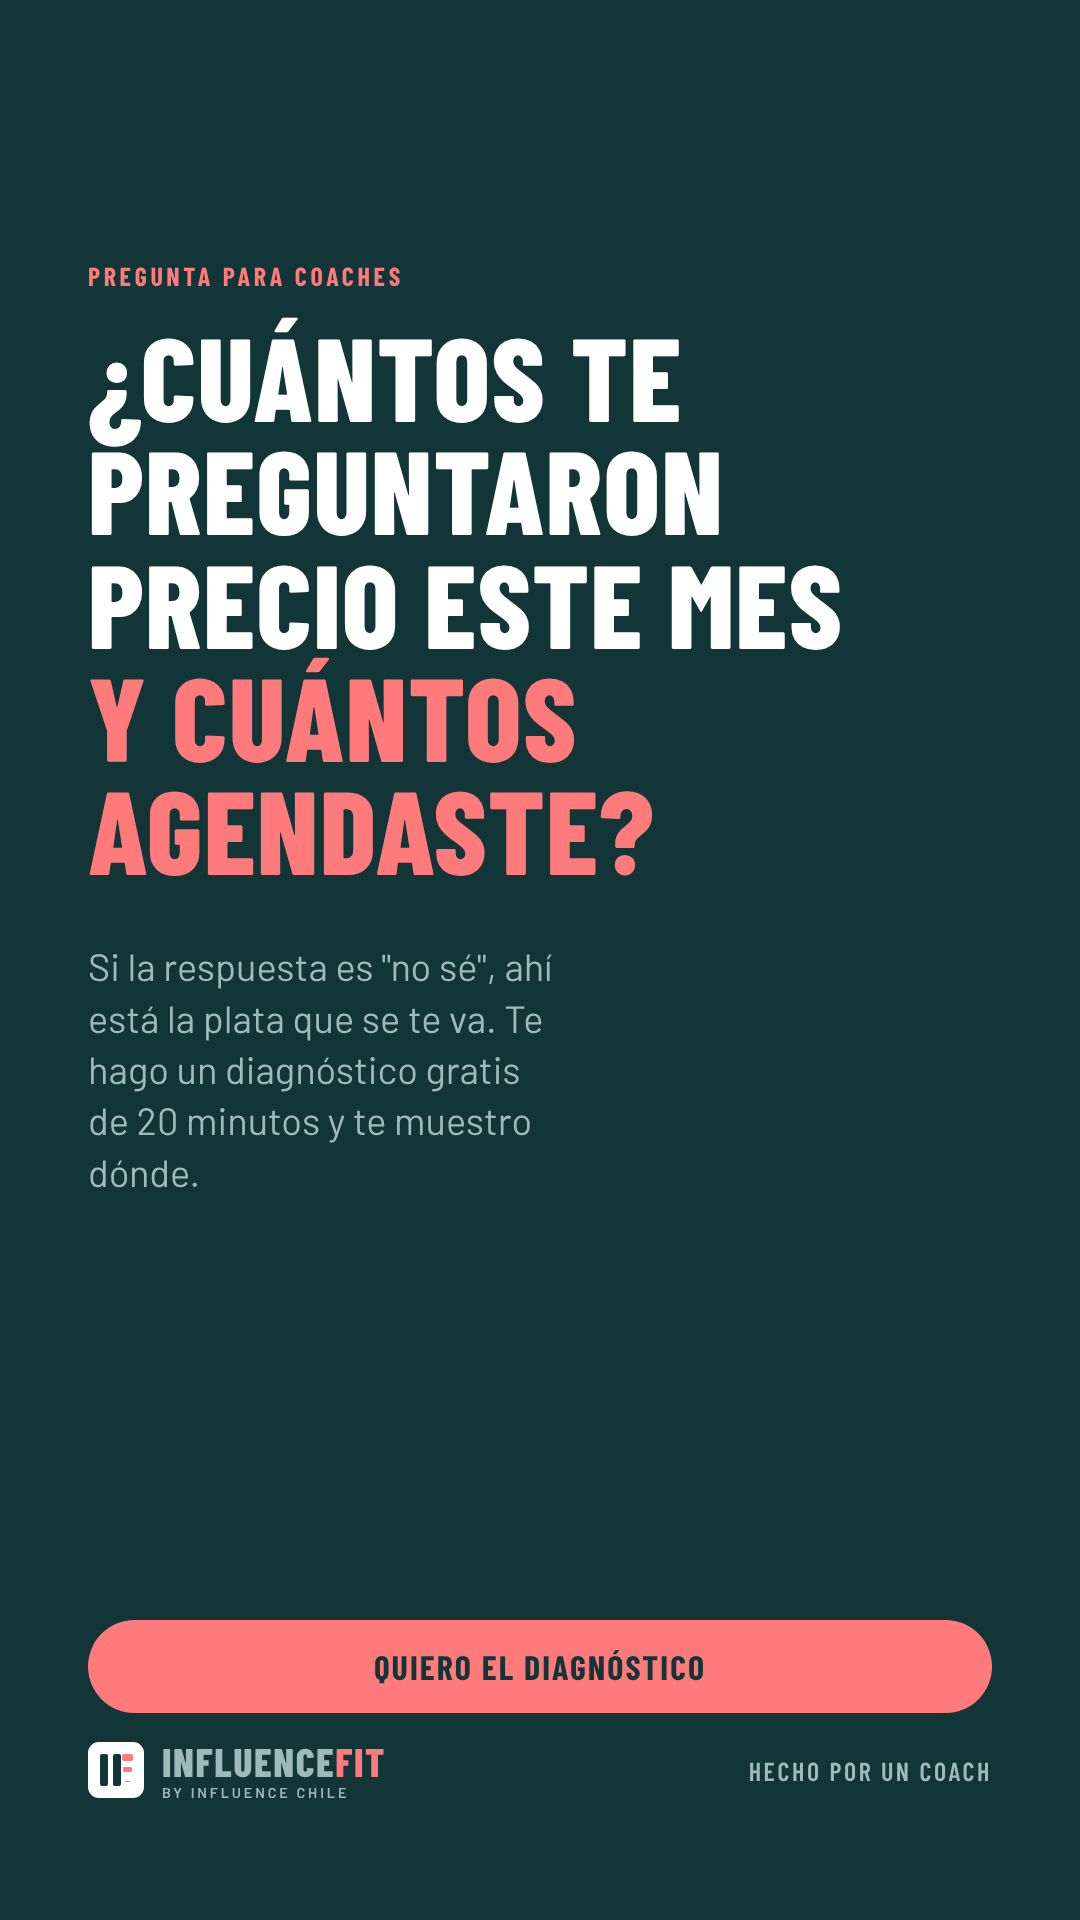
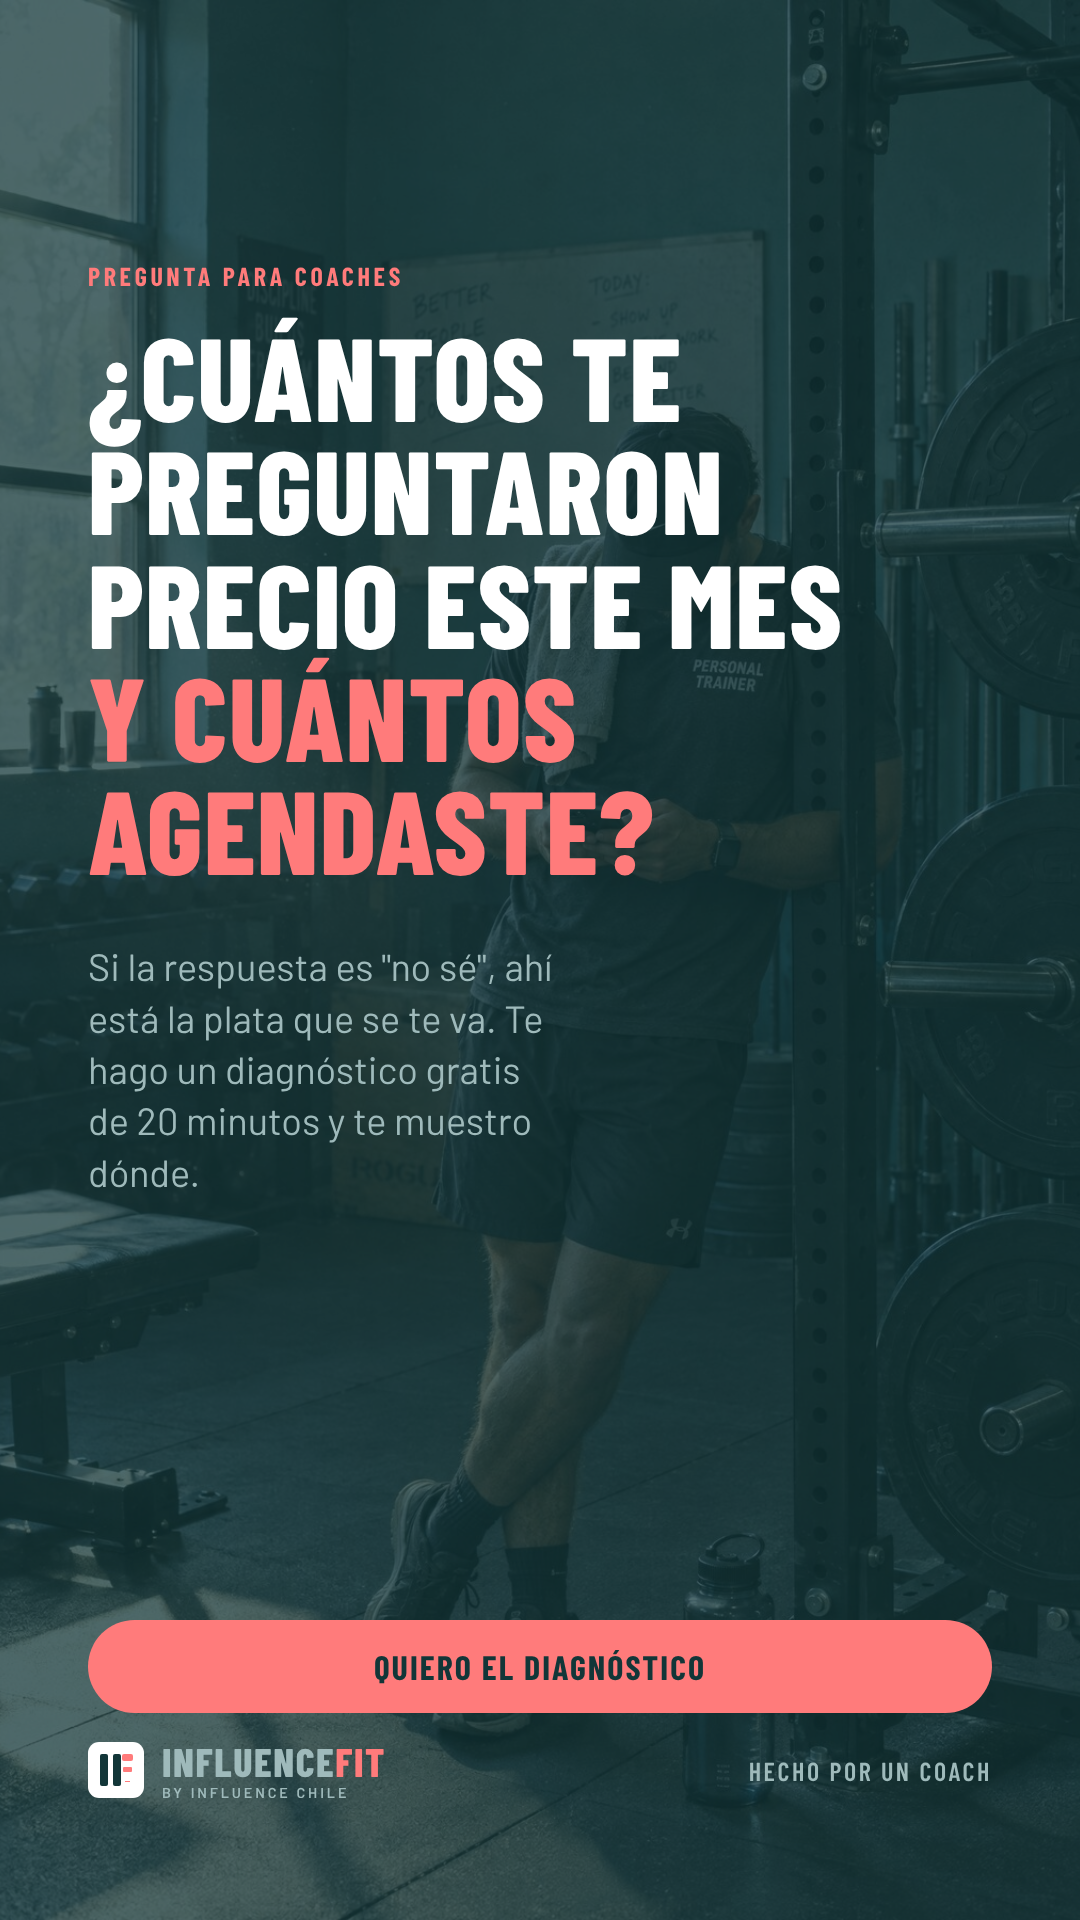
Add documentary-style photos to Influence Fit social graphics
Eight generated atmosphere photos (coach from behind correcting a squat,
coach on phone, empty gym at 7am, chalked hands on a bar, handwritten
program notebook, coastal path, trainer entering the gym, kettlebell rack)
in marca/graficas/fotos/, integrated into ads, carousel, feed posts and
stories with a charcoal scrim. Identity guide notes they are provisional
and faceless on purpose until real photos exist.

Claude-Session: https://claude.ai/code/session_01M6XVhTMSYrhRKbgCyp2Bbs

diff --git a/influence-fit/marca/graficas/plantillas/carrusel-04-fuga3.html b/influence-fit/marca/graficas/plantillas/carrusel-04-fuga3.html
@@ -1,8 +1,8 @@
 <!doctype html><html lang="es"><head><meta charset="utf-8"><link rel="stylesheet" href="../base.css"></head><body><!-- 1080x1350 · Carrusel "3 fugas" · 4/5 -->
-<div class="canvas p45" style="background:var(--bg-2)"><div class="pad" style="display:flex;flex-direction:column;height:100%">
-  <div class="num">03</div>
+<div class="canvas p45" style="background:var(--bg-2)"><div class="foto" style="height:300px;background-image:url(../fotos/entrando-sala.jpg)"></div><div class="pad" style="display:flex;flex-direction:column;flex:1;padding-top:48px">
+  <div class="num" style="font-size:120px">03</div>
   <h2 style="margin-top:12px">Se van al<br><span class="hl">tercer mes</span></h2>
-  <p class="lede" style="margin-top:44px;max-width:26ch">Entran motivados, el resultado tarda, y nadie les habla hasta que dejan de ir. Captar cuesta 5 veces más que retener.</p>
-  <div class="card" style="margin-top:56px"><div class="eyebrow" style="margin-bottom:12px;color:var(--teal)">Cómo se arregla</div><p style="font-size:32px;line-height:1.35">Un mensaje tuyo en la semana 2, 6 y 10, justo cuando suelen abandonar. Y una oferta de renovación antes de que se acabe el ciclo.</p></div>
+  <p class="lede" style="margin-top:28px;max-width:26ch;font-size:32px">Entran motivados, el resultado tarda, y nadie les habla hasta que dejan de ir. Captar cuesta 5 veces más que retener.</p>
+  <div class="card" style="margin-top:36px;padding:34px"><div class="eyebrow" style="margin-bottom:12px;color:var(--teal)">Cómo se arregla</div><p style="font-size:32px;line-height:1.35">Un mensaje tuyo en la semana 2, 6 y 10, justo cuando suelen abandonar. Y una oferta de renovación antes de que se acabe el ciclo.</p></div>
   <div class="foot"><span class="logo"><i></i><b>Influence<span>Fit</span><small>by Influence Chile</small></b></span><span>4 / 5 →</span></div>
 </div></div></body></html>

diff --git a/influence-fit/marca/graficas/plantillas/carrusel-02-fuga1.html b/influence-fit/marca/graficas/plantillas/carrusel-02-fuga1.html
@@ -1,8 +1,8 @@
 <!doctype html><html lang="es"><head><meta charset="utf-8"><link rel="stylesheet" href="../base.css"></head><body><!-- 1080x1350 · Carrusel "3 fugas" · 2/5 -->
-<div class="canvas p45" style="background:var(--bg-2)"><div class="pad" style="display:flex;flex-direction:column;height:100%">
-  <div class="num">01</div>
+<div class="canvas p45" style="background:var(--bg-2)"><div class="foto" style="height:300px;background-image:url(../fotos/kettlebells.jpg)"></div><div class="pad" style="display:flex;flex-direction:column;flex:1;padding-top:48px">
+  <div class="num" style="font-size:120px">01</div>
   <h2 style="margin-top:12px">Clientes<br><span class="hl">inestables</span></h2>
-  <p class="lede" style="margin-top:44px;max-width:26ch">Un mes lleno, el siguiente con dos horas libres. Dependes de que alguien te recomiende o de que un reel pegue.</p>
-  <div class="card" style="margin-top:56px"><div class="eyebrow" style="margin-bottom:12px;color:var(--teal)">Cómo se arregla</div><p style="font-size:32px;line-height:1.35">Anuncios que llevan a una evaluación agendada, no a "info por DM". Y alguien que responda en 2 minutos, no en 20 horas.</p></div>
+  <p class="lede" style="margin-top:28px;max-width:26ch;font-size:32px">Un mes lleno, el siguiente con dos horas libres. Dependes de que alguien te recomiende o de que un reel pegue.</p>
+  <div class="card" style="margin-top:36px;padding:34px"><div class="eyebrow" style="margin-bottom:12px;color:var(--teal)">Cómo se arregla</div><p style="font-size:32px;line-height:1.35">Anuncios que llevan a una evaluación agendada, no a "info por DM". Y alguien que responda en 2 minutos, no en 20 horas.</p></div>
   <div class="foot"><span class="logo"><i></i><b>Influence<span>Fit</span><small>by Influence Chile</small></b></span><span>2 / 5 →</span></div>
 </div></div></body></html>

diff --git a/influence-fit/marca/graficas/plantillas/carrusel-03-fuga2.html b/influence-fit/marca/graficas/plantillas/carrusel-03-fuga2.html
@@ -1,8 +1,8 @@
 <!doctype html><html lang="es"><head><meta charset="utf-8"><link rel="stylesheet" href="../base.css"></head><body><!-- 1080x1350 · Carrusel "3 fugas" · 3/5 -->
-<div class="canvas p45" style="background:var(--bg-2)"><div class="pad" style="display:flex;flex-direction:column;height:100%">
-  <div class="num">02</div>
+<div class="canvas p45" style="background:var(--bg-2)"><div class="foto" style="height:300px;background-image:url(../fotos/coach-telefono.jpg)"></div><div class="pad" style="display:flex;flex-direction:column;flex:1;padding-top:48px">
+  <div class="num" style="font-size:120px">02</div>
   <h2 style="margin-top:12px">Administración<br><span class="hl">por WhatsApp</span></h2>
-  <p class="lede" style="margin-top:44px;max-width:26ch">Cobros, recordatorios, cambios de hora, fichas de lesiones. Dos horas al día que no entrenan a nadie ni te pagan.</p>
-  <div class="card" style="margin-top:56px"><div class="eyebrow" style="margin-bottom:12px;color:var(--teal)">Cómo se arregla</div><p style="font-size:32px;line-height:1.35">Ficha de onboarding que llega sola a tu planilla, recordatorios y cobros automáticos. Tú solo entrenas.</p></div>
+  <p class="lede" style="margin-top:28px;max-width:26ch;font-size:32px">Cobros, recordatorios, cambios de hora, fichas de lesiones. Dos horas al día que no entrenan a nadie ni te pagan.</p>
+  <div class="card" style="margin-top:36px;padding:34px"><div class="eyebrow" style="margin-bottom:12px;color:var(--teal)">Cómo se arregla</div><p style="font-size:32px;line-height:1.35">Ficha de onboarding que llega sola a tu planilla, recordatorios y cobros automáticos. Tú solo entrenas.</p></div>
   <div class="foot"><span class="logo"><i></i><b>Influence<span>Fit</span><small>by Influence Chile</small></b></span><span>3 / 5 →</span></div>
 </div></div></body></html>

diff --git a/influence-fit/marca/graficas/plantillas/feed-02-fundadores.html b/influence-fit/marca/graficas/plantillas/feed-02-fundadores.html
@@ -1,12 +1,12 @@
 <!doctype html><html lang="es"><head><meta charset="utf-8"><link rel="stylesheet" href="../base.css"></head><body><!-- 1080x1350 · Post cupos fundadores -->
-<div class="canvas p45" style="background:var(--bg-2)"><div class="pad" style="display:flex;flex-direction:column;height:100%">
+<div class="canvas p45" style="background:var(--bg-2)"><div class="foto" style="height:380px;background-image:url(../fotos/libreta-programa.jpg);background-position:center 40%"></div><div class="pad" style="display:flex;flex-direction:column;flex:1;padding-top:56px">
   <div class="eyebrow">Lanzamiento · primeros 90 días</div>
-  <h1 style="font-size:132px">5 cupos<br><span class="hl">fundadores</span></h1>
-  <ul class="check" style="margin-top:48px;font-size:31px">
+  <h1 style="font-size:112px">5 cupos<br><span class="hl">fundadores</span></h1>
+  <ul class="check" style="margin-top:36px;font-size:29px;gap:16px">
     <li><span>Sistema de clientes completo <b>incluido gratis</b> (valor desde $490.000)</span></li>
     <li><span>Garantía: 15 evaluaciones agendadas en 60 días o el mes siguiente <b>corre por mi cuenta</b></span></li>
     <li><span>Trato directo conmigo, <b>sin ejecutivo de cuentas</b></span></li>
   </ul>
-  <div class="cupos" style="margin-top:48px"><i class="taken">1</i><i>2</i><i>3</i><i>4</i><i>5</i></div>
+  <div class="cupos" style="margin-top:36px"><i class="taken">1</i><i>2</i><i>3</i><i>4</i><i>5</i></div>
   <div class="foot"><span class="logo"><i></i><b>Influence<span>Fit</span><small>by Influence Chile</small></b></span><span>Para coaches y gimnasios</span></div>
 </div></div></body></html>

diff --git a/influence-fit/marca/graficas/base.css b/influence-fit/marca/graficas/base.css
@@ -45,6 +45,11 @@ ul.check { list-style: none; display: grid; gap: 22px; font-size: 34px; line-hei
 ul.check li { display: grid; grid-template-columns: 44px 1fr; gap: 16px; } ul.check li > span { display: block; }
 ul.check li::before { content: "✓"; color: var(--accent); font-weight: 700; font-family: var(--display); font-size: 38px; }
 /* foto: pon el archivo en ../fotos/ y referencia en style="background-image"; si no existe, se ve la trama con la nota */
+/* foto a sangre con capa carbón para que el texto se lea */
+.canvas.photo { background-size: cover; background-position: center; }
+.canvas.photo::before { content: ""; position: absolute; inset: 0; background: rgba(18,54,56,.74); }
+.canvas.photo.soft::before { background: rgba(18,54,56,.62); }
+.canvas.photo > * { position: relative; }
 .foto { background-color: var(--ink-2); background-size: cover; background-position: center; position: relative; }
 .foto .nota { position: absolute; inset: 0; display: grid; place-items: center; text-align: center; padding: 60px; font-family: var(--display); font-size: 30px; letter-spacing: .08em; text-transform: uppercase; color: var(--ink-muted); background-image: repeating-linear-gradient(45deg, transparent 0 28px, rgba(255,255,255,.04) 28px 30px); }
 .foto[style*="url"] .nota { display: none; }

diff --git a/influence-fit/marca/graficas/plantillas/story-02-cupos.html b/influence-fit/marca/graficas/plantillas/story-02-cupos.html
@@ -1,5 +1,5 @@
 <!doctype html><html lang="es"><head><meta charset="utf-8"><link rel="stylesheet" href="../base.css"></head><body><!-- 1080x1920 · Historia: cupos fundadores (editar la clase taken según cupos vendidos) -->
-<div class="canvas story dark"><div class="pad" style="display:flex;flex-direction:column;height:100%;padding-top:300px">
+<div class="canvas story dark photo soft" style="background-image:url(../fotos/litoral-amanecer.jpg)"><div class="pad" style="display:flex;flex-direction:column;height:100%;padding-top:300px">
   <div class="eyebrow">Quedan cupos fundadores</div>
   <div style="display:flex;align-items:baseline;gap:30px"><span class="num" style="font-size:420px;line-height:.85">4</span><span style="font-family:var(--display);font-weight:800;text-transform:uppercase;font-size:84px;line-height:1">de 5<br>cupos</span></div>
   <p class="lede" style="margin-top:56px;font-size:40px;max-width:20ch">Sistema de clientes gratis + garantía de 15 evaluaciones en 60 días. Para los primeros 5 coaches.</p>

diff --git a/influence-fit/marca/graficas/plantillas/ad-03-story.html b/influence-fit/marca/graficas/plantillas/ad-03-story.html
@@ -1,5 +1,5 @@
 <!doctype html><html lang="es"><head><meta charset="utf-8"><link rel="stylesheet" href="../base.css"></head><body><!-- 1080x1920 · Anuncio de historia / reel cover -->
-<div class="canvas story dark"><div class="pad" style="display:flex;flex-direction:column;height:100%;padding-top:260px">
+<div class="canvas story dark photo" style="background-image:url(../fotos/coach-telefono.jpg)"><div class="pad" style="display:flex;flex-direction:column;height:100%;padding-top:260px">
   <div class="eyebrow">Pregunta para coaches</div>
   <h1 style="font-size:118px">¿Cuántos te<br>preguntaron<br>precio este mes<br><span class="hl">y cuántos<br>agendaste?</span></h1>
   <p class="lede" style="margin-top:56px;font-size:38px;max-width:22ch">Si la respuesta es "no sé", ahí está la plata que se te va. Te hago un diagnóstico gratis de 20 minutos y te muestro dónde.</p>

diff --git a/influence-fit/marca/graficas/plantillas/ad-02-coach.html b/influence-fit/marca/graficas/plantillas/ad-02-coach.html
@@ -1,6 +1,6 @@
 <!doctype html><html lang="es"><head><meta charset="utf-8"><link rel="stylesheet" href="../base.css"></head><body><!-- 1080x1080 · Anuncio cuadrado con foto real de Gabriel -->
 <div class="canvas sq dark" style="flex-direction:row">
-  <div class="foto" style="width:460px;height:100%;"><div class="nota">Foto: Gabriel en sala corrigiendo técnica. Luz real. Sin filtro.</div></div>
+  <div class="foto" style="width:460px;height:100%;background-image:url(../fotos/coach-corrigiendo.jpg);background-position:35% center"><div class="nota">Foto: Gabriel en sala corrigiendo técnica. Luz real. Sin filtro.</div></div>
   <div style="flex:1;padding:80px 72px;display:flex;flex-direction:column">
     <div class="eyebrow">Hecho por un coach</div>
     <h1 style="font-size:92px">15 años<br>llenando<br>mi agenda.<br><span class="hl">Ahora lleno<br>la tuya.</span></h1>

diff --git a/influence-fit/marca/graficas/plantillas/feed-01-presentacion.html b/influence-fit/marca/graficas/plantillas/feed-01-presentacion.html
@@ -1,5 +1,5 @@
 <!doctype html><html lang="es"><head><meta charset="utf-8"><link rel="stylesheet" href="../base.css"></head><body><!-- 1080x1350 · Post de presentación -->
-<div class="canvas p45 dark"><div class="pad" style="display:flex;flex-direction:column;height:100%">
+<div class="canvas p45 dark photo" style="background-image:url(../fotos/sala-7am.jpg)"><div class="pad" style="display:flex;flex-direction:column;height:100%">
   <span class="logo" style="font-size:52px"><i style="width:72px;height:72px;border-radius:14px"></i><b>Influence<span>Fit</span><small>by Influence Chile</small></b></span>
   <h1 style="margin-top:120px">Marketing<br>y sistemas<br>para coaches.<br><span class="hl">Hecho por<br>un coach.</span></h1>
   <div style="display:grid;grid-template-columns:1fr 1fr 1fr;gap:28px;margin-top:96px">

diff --git a/influence-fit/marca/graficas/plantillas/carrusel-05-cierre.html b/influence-fit/marca/graficas/plantillas/carrusel-05-cierre.html
@@ -1,5 +1,5 @@
 <!doctype html><html lang="es"><head><meta charset="utf-8"><link rel="stylesheet" href="../base.css"></head><body><!-- 1080x1350 · Carrusel "3 fugas" · 5/5 -->
-<div class="canvas p45 dark"><div class="pad" style="display:flex;flex-direction:column;height:100%">
+<div class="canvas p45 dark photo" style="background-image:url(../fotos/manos-barra.jpg)"><div class="pad" style="display:flex;flex-direction:column;height:100%">
   <div class="eyebrow">Gratis, sin compromiso</div>
   <h1 style="font-size:100px">Te digo cuál<br>de las tres<br><span class="hl">es la tuya.</span></h1>
   <p class="lede" style="margin-top:48px">Diagnóstico de 20 minutos: miro tu perfil, tu oferta y cómo agendas. Te vas con 3 problemas y 3 acciones, me contrates o no.</p>

diff --git a/influence-fit/marca/graficas/plantillas/story-01-diagnostico.html b/influence-fit/marca/graficas/plantillas/story-01-diagnostico.html
@@ -1,5 +1,5 @@
 <!doctype html><html lang="es"><head><meta charset="utf-8"><link rel="stylesheet" href="../base.css"></head><body><!-- 1080x1920 · Historia: diagnóstico gratis (dejar espacio abajo para sticker de link) -->
-<div class="canvas story dark"><div class="pad" style="display:flex;flex-direction:column;height:100%;padding-top:280px">
+<div class="canvas story dark photo" style="background-image:url(../fotos/entrando-sala.jpg)"><div class="pad" style="display:flex;flex-direction:column;height:100%;padding-top:280px">
   <div class="eyebrow">Para coaches</div>
   <h1 style="font-size:124px">Diagnóstico<br><span class="hl">gratis</span><br>de 20 min</h1>
   <div style="display:grid;gap:36px;margin-top:88px">

diff --git a/influence-fit/marca/graficas/plantillas/carrusel-01-portada.html b/influence-fit/marca/graficas/plantillas/carrusel-01-portada.html
@@ -1,5 +1,5 @@
 <!doctype html><html lang="es"><head><meta charset="utf-8"><link rel="stylesheet" href="../base.css"></head><body><!-- 1080x1350 · Carrusel "3 fugas" · 1/5 -->
-<div class="canvas p45 dark"><div class="pad" style="display:flex;flex-direction:column;height:100%">
+<div class="canvas p45 dark photo" style="background-image:url(../fotos/coach-corrigiendo.jpg)"><div class="pad" style="display:flex;flex-direction:column;height:100%">
   <div class="eyebrow">Lo que veo todas las semanas</div>
   <h1>Tres cosas<br>que te están<br><span class="hl">costando<br>clientes</span></h1>
   <p class="lede" style="margin-top:56px">Y ninguna es "publicar más". Desliza.</p>
